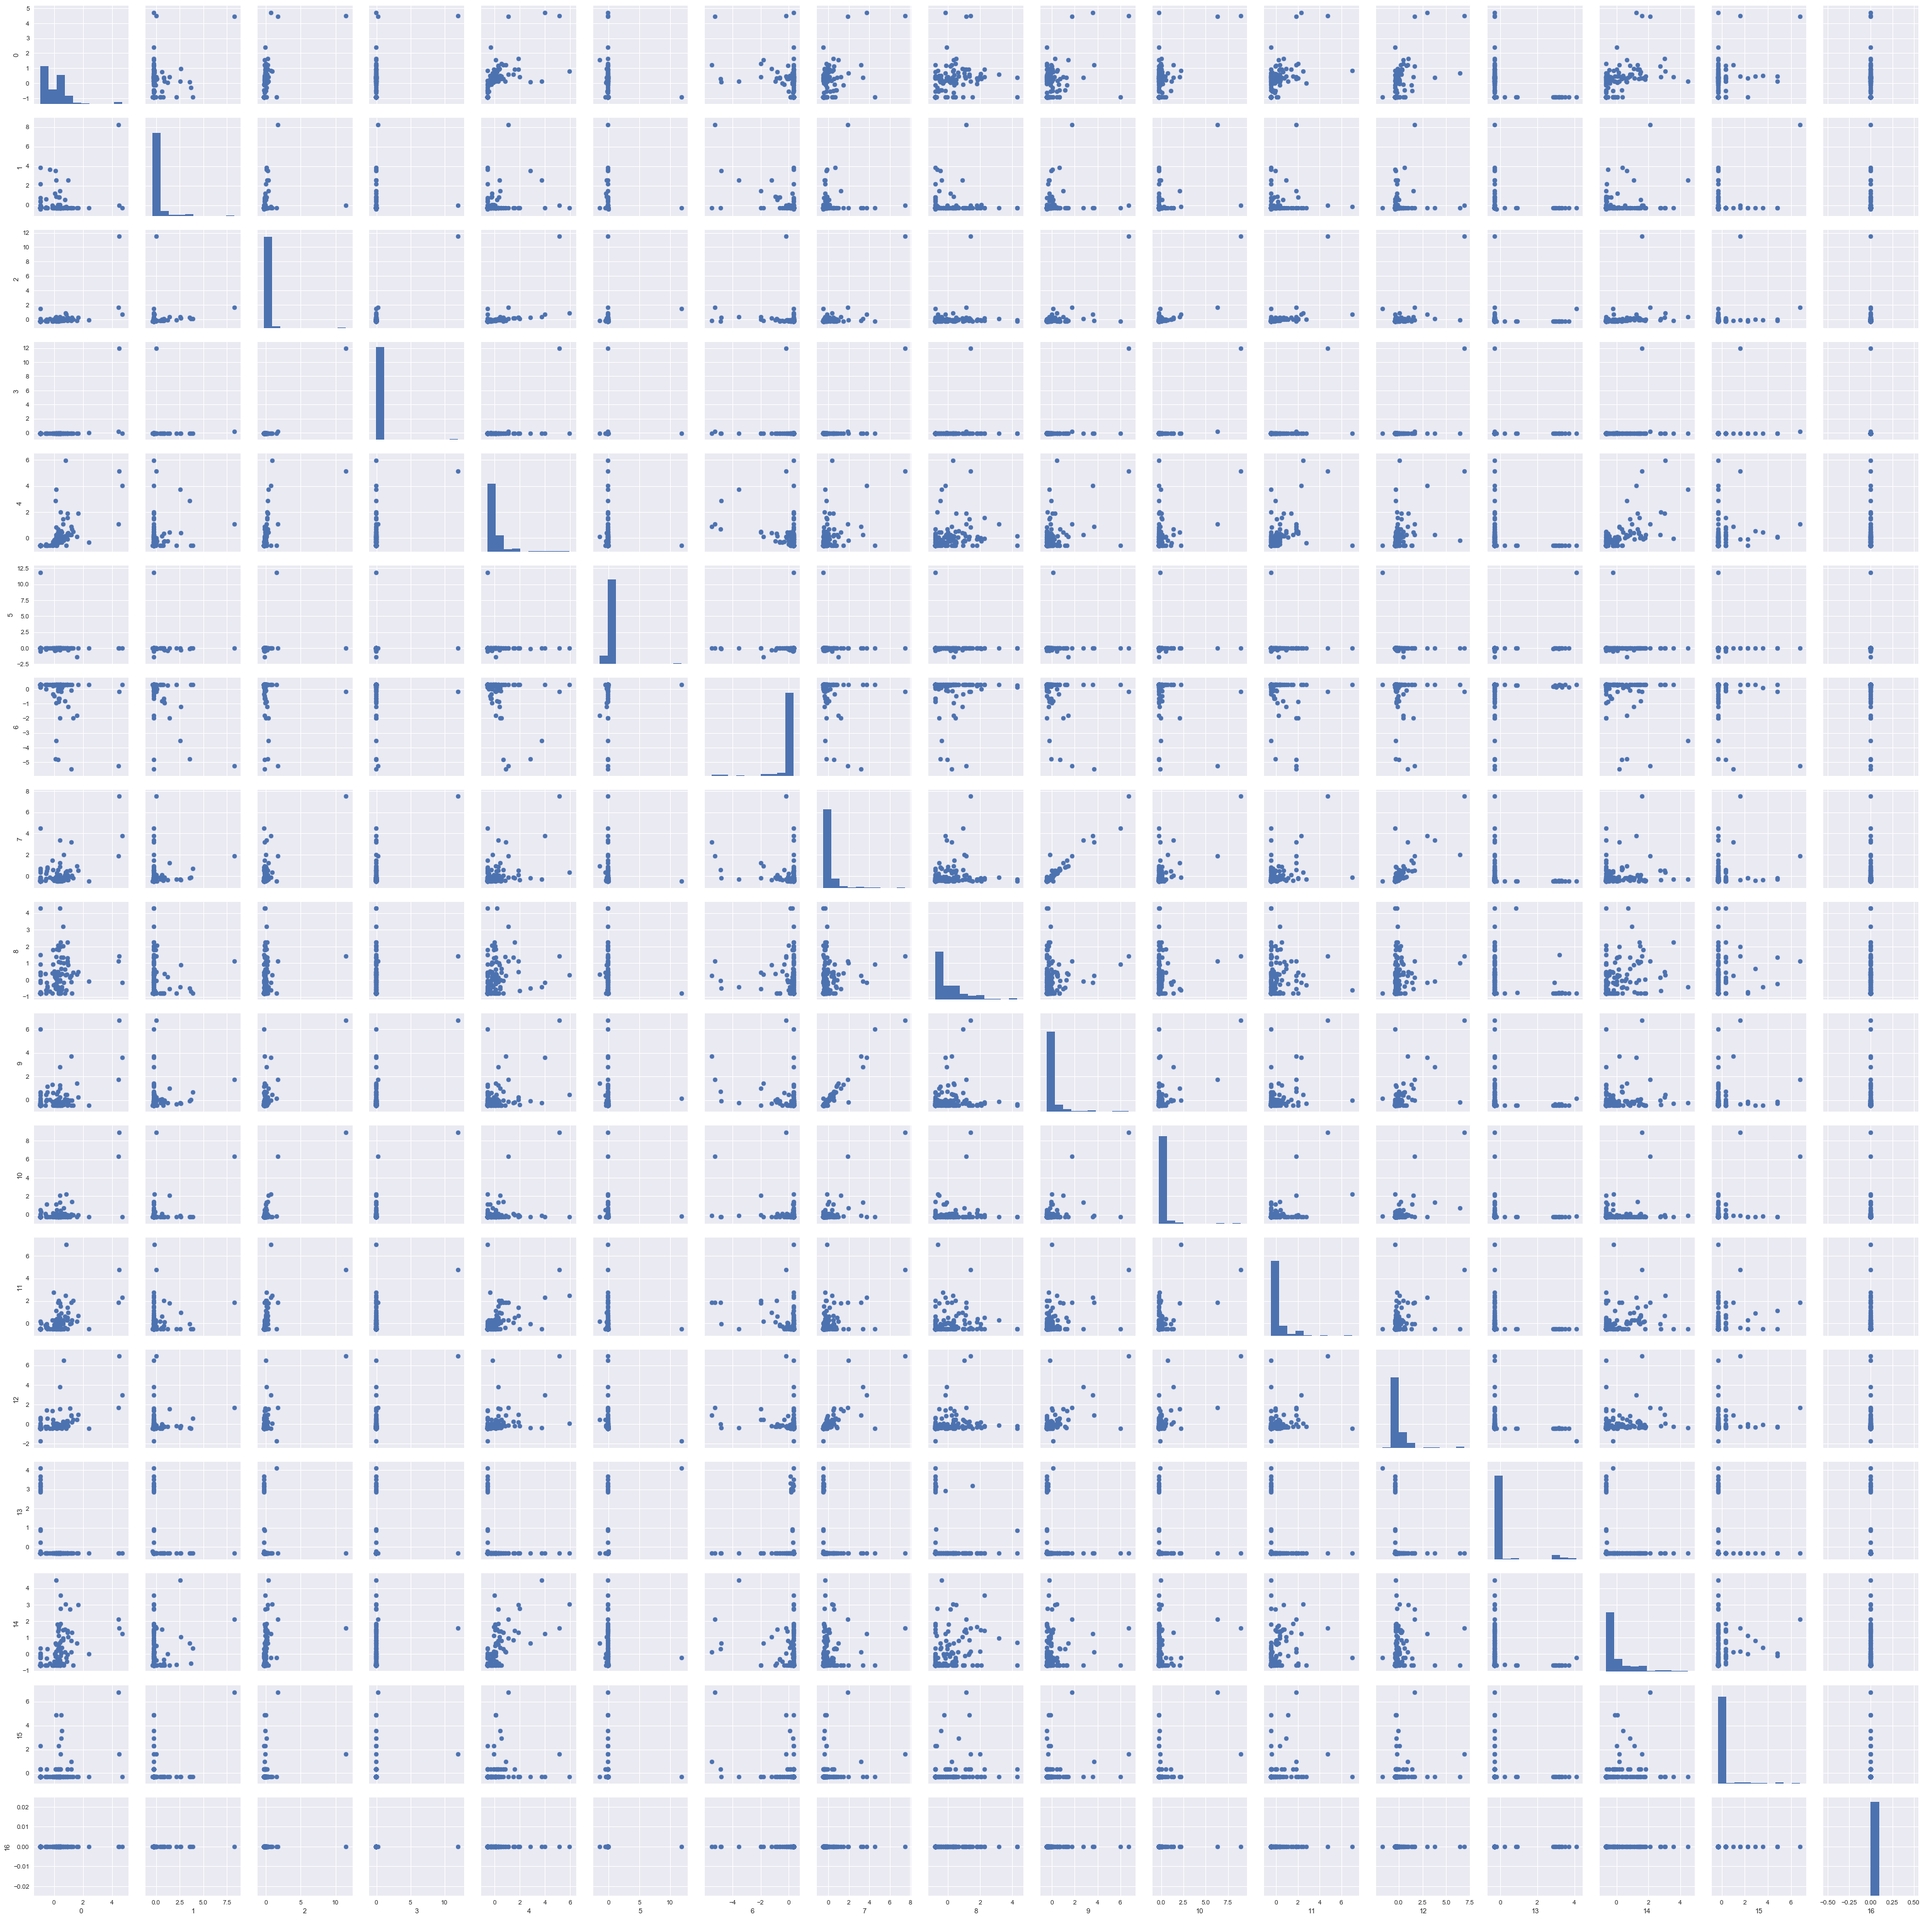
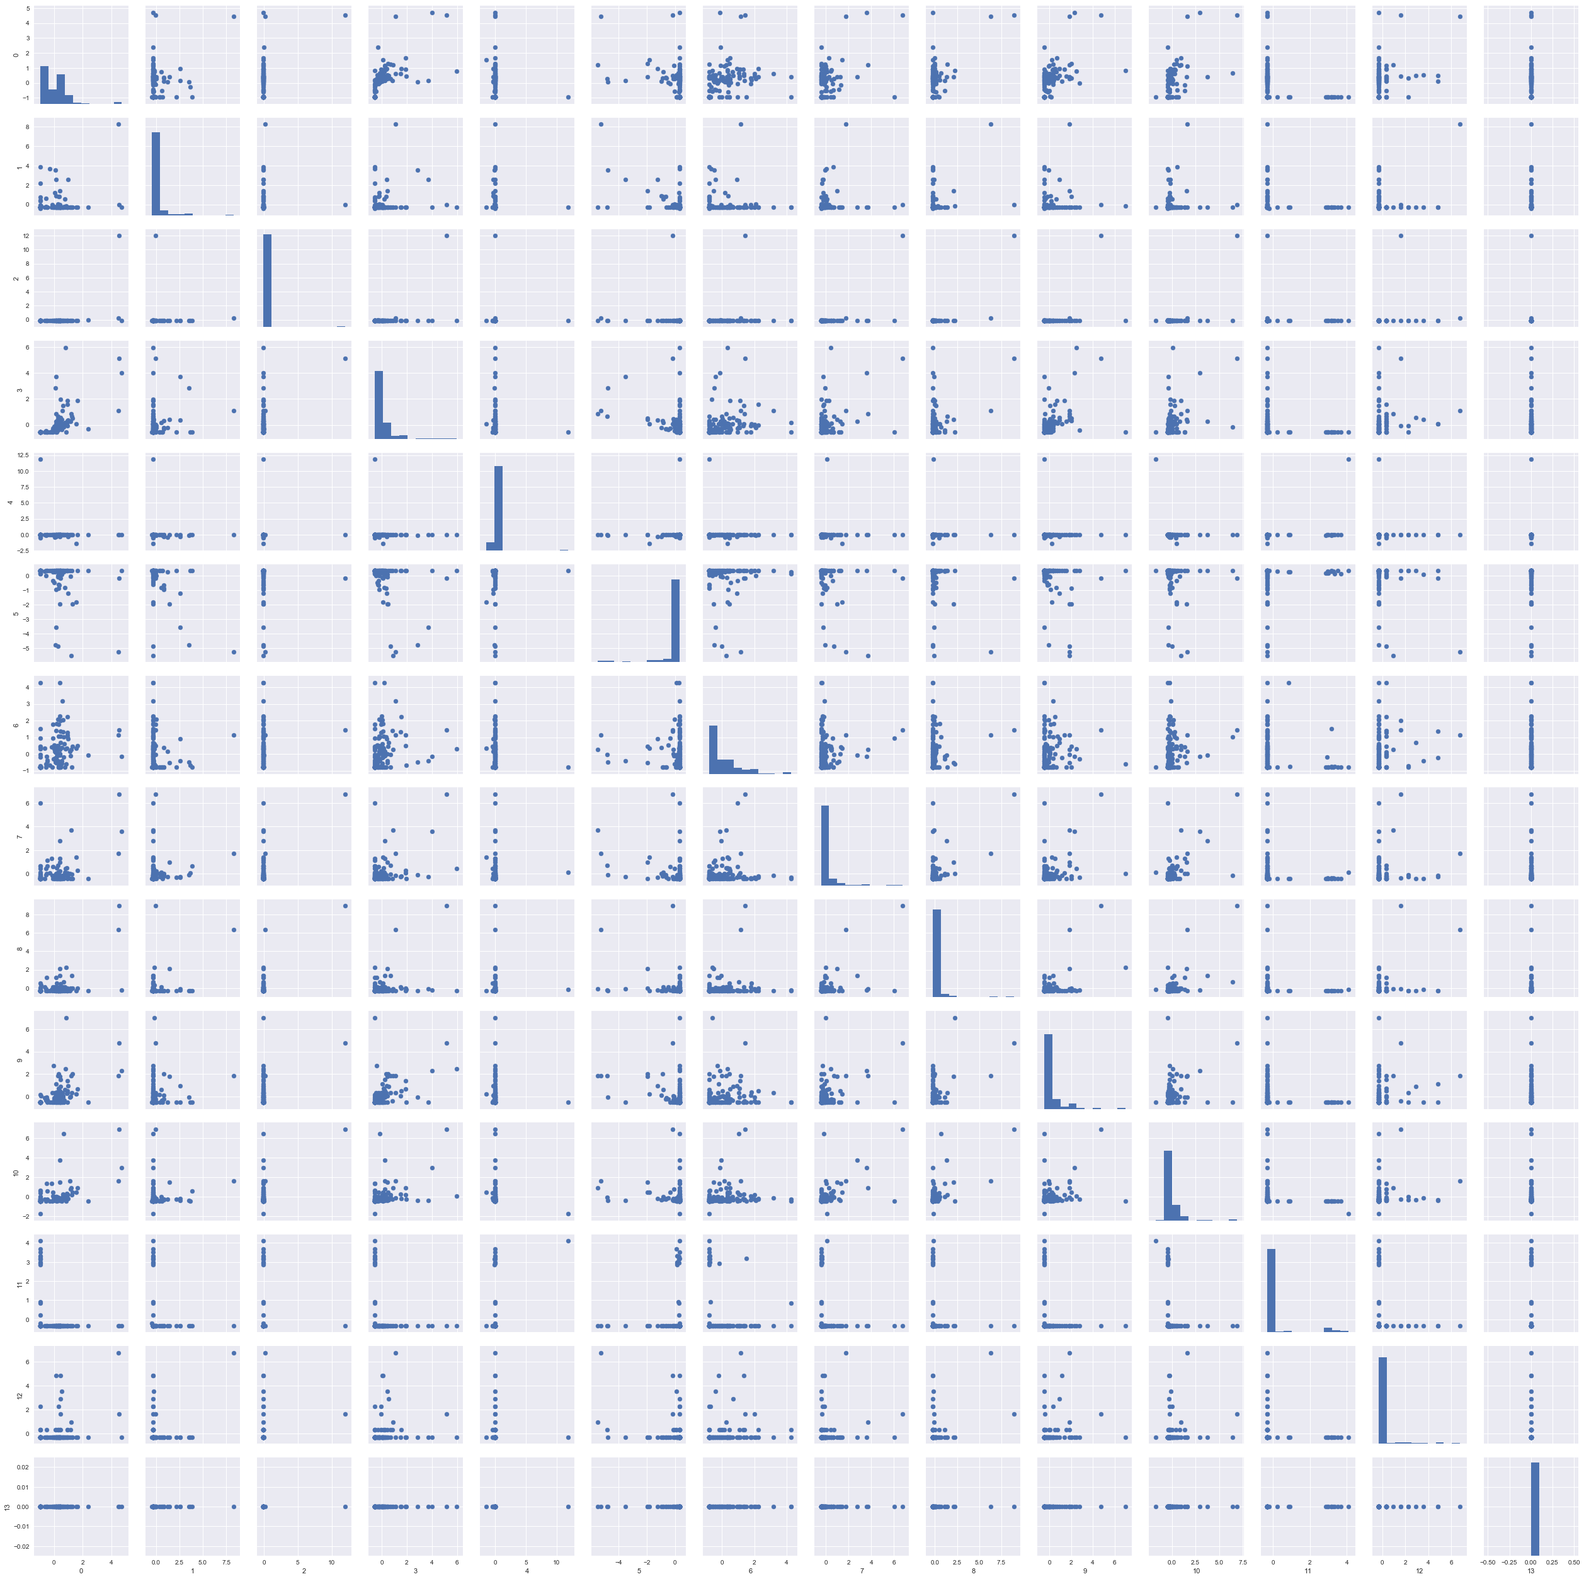
initial visualization

diff --git a/poi_id.py b/poi_id.py
@@ -12,9 +12,9 @@ from tester import dump_classifier_and_data
 ### The first feature must be "poi".
 ### Include all quantitative features. In addition, 'std_from_poi' and
 ### 'std_to_poi' are standardized feature (see details below).
-features_list = ['poi','salary', 'deferral_payments', 'total_payments',
+features_list = ['poi','salary', 'deferral_payments',
                  'loan_advances', 'bonus', 'restricted_stock_deferred',
-                 'deferred_income', 'total_stock_value', 'expenses',
+                 'deferred_income', 'expenses',
                  'exercised_stock_options', 'other', 'long_term_incentive',
                  'restricted_stock', 'director_fees','shared_receipt_with_poi',
                  'std_from_poi','std_to_poi']

diff --git a/README.md b/README.md
@@ -30,7 +30,7 @@ and model selection.
 
 ## Feature Selection and Engineering
 First, the row corresponding to 'TOTAL' is removed. In addition, all features
-are included except 'to_messages', 'email_address', 'from_poi_to_this_person', 'from_messages', and 'from_this_person_to_poi'.
+are included except 'total_payments','total_stock_values','to_messages', 'email_address', 'from_poi_to_this_person', 'from_messages', and 'from_this_person_to_poi'.
 Furthermore, 'std_from_poi' and 'std_to_poi' are standardized features derived
 as follows.
 
@@ -83,7 +83,7 @@ collinear. In other words, some of the features are correlated with each other.
 This correlation should be avoided for LDA because it implies redundancy and
 confuses the interpretation of the  LDA coefficients. More detailed explanation
 can be found [here](https://stats.stackexchange.com/questions/29385/collinear-variables-in-multiclass-lda-training). This correlation is confirmed by the following scatterplot
-matrix (**Fig. 1**). 
+matrix (**Fig. 1**).
 
 ![Plot](https://github.com/lmarkely/enron_fraud/blob/master/Fig%201.png)
 
